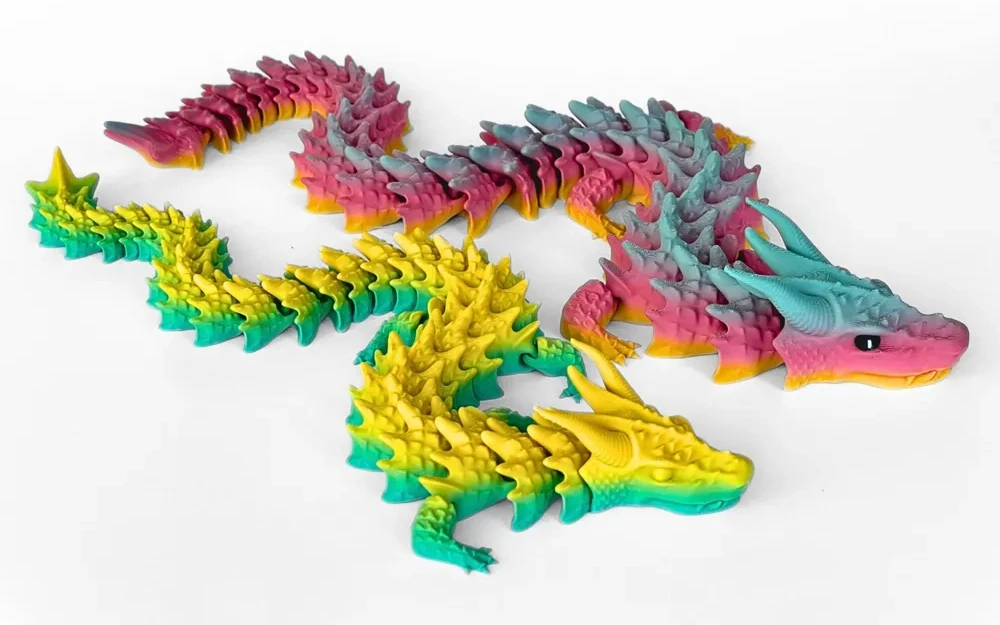
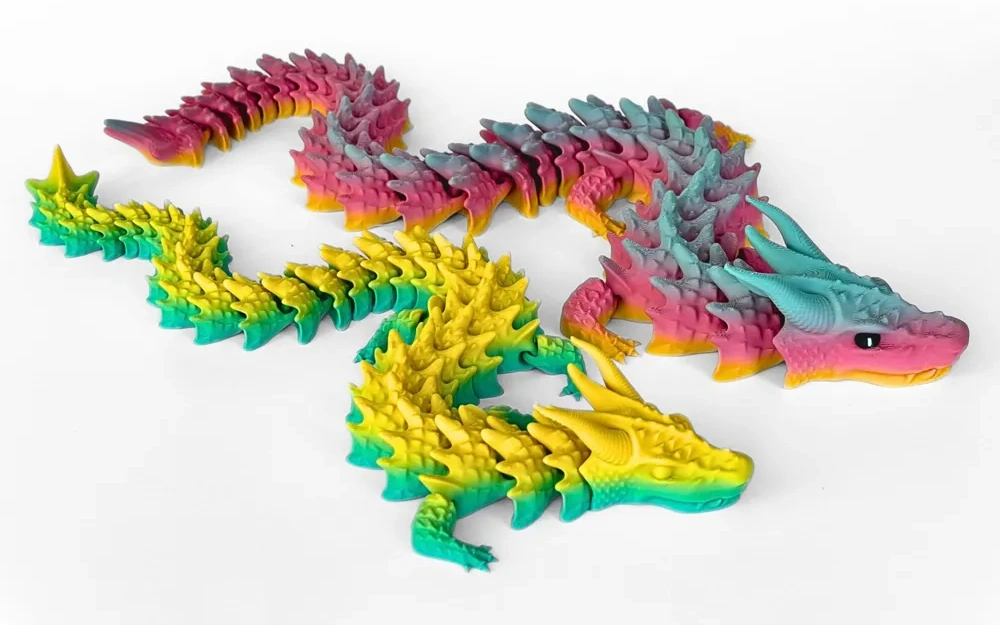
Anchor Shadow Coil overview card image to bottom to ensure snout and mouth are fully visible

Changed region(s): [[0.031, 0.0608, 0.961, 0.9424]]

diff --git a/assets/css/styles.css b/assets/css/styles.css
@@ -1072,6 +1072,10 @@ span[data-fs-error] {
   transition: transform 0.5s ease;
 }
 
+.highlight-standard .highlight-image-wrapper img {
+  object-position: center bottom;
+}
+
 .highlight-card:hover .highlight-image-wrapper img {
   transform: scale(1.08);
 }
